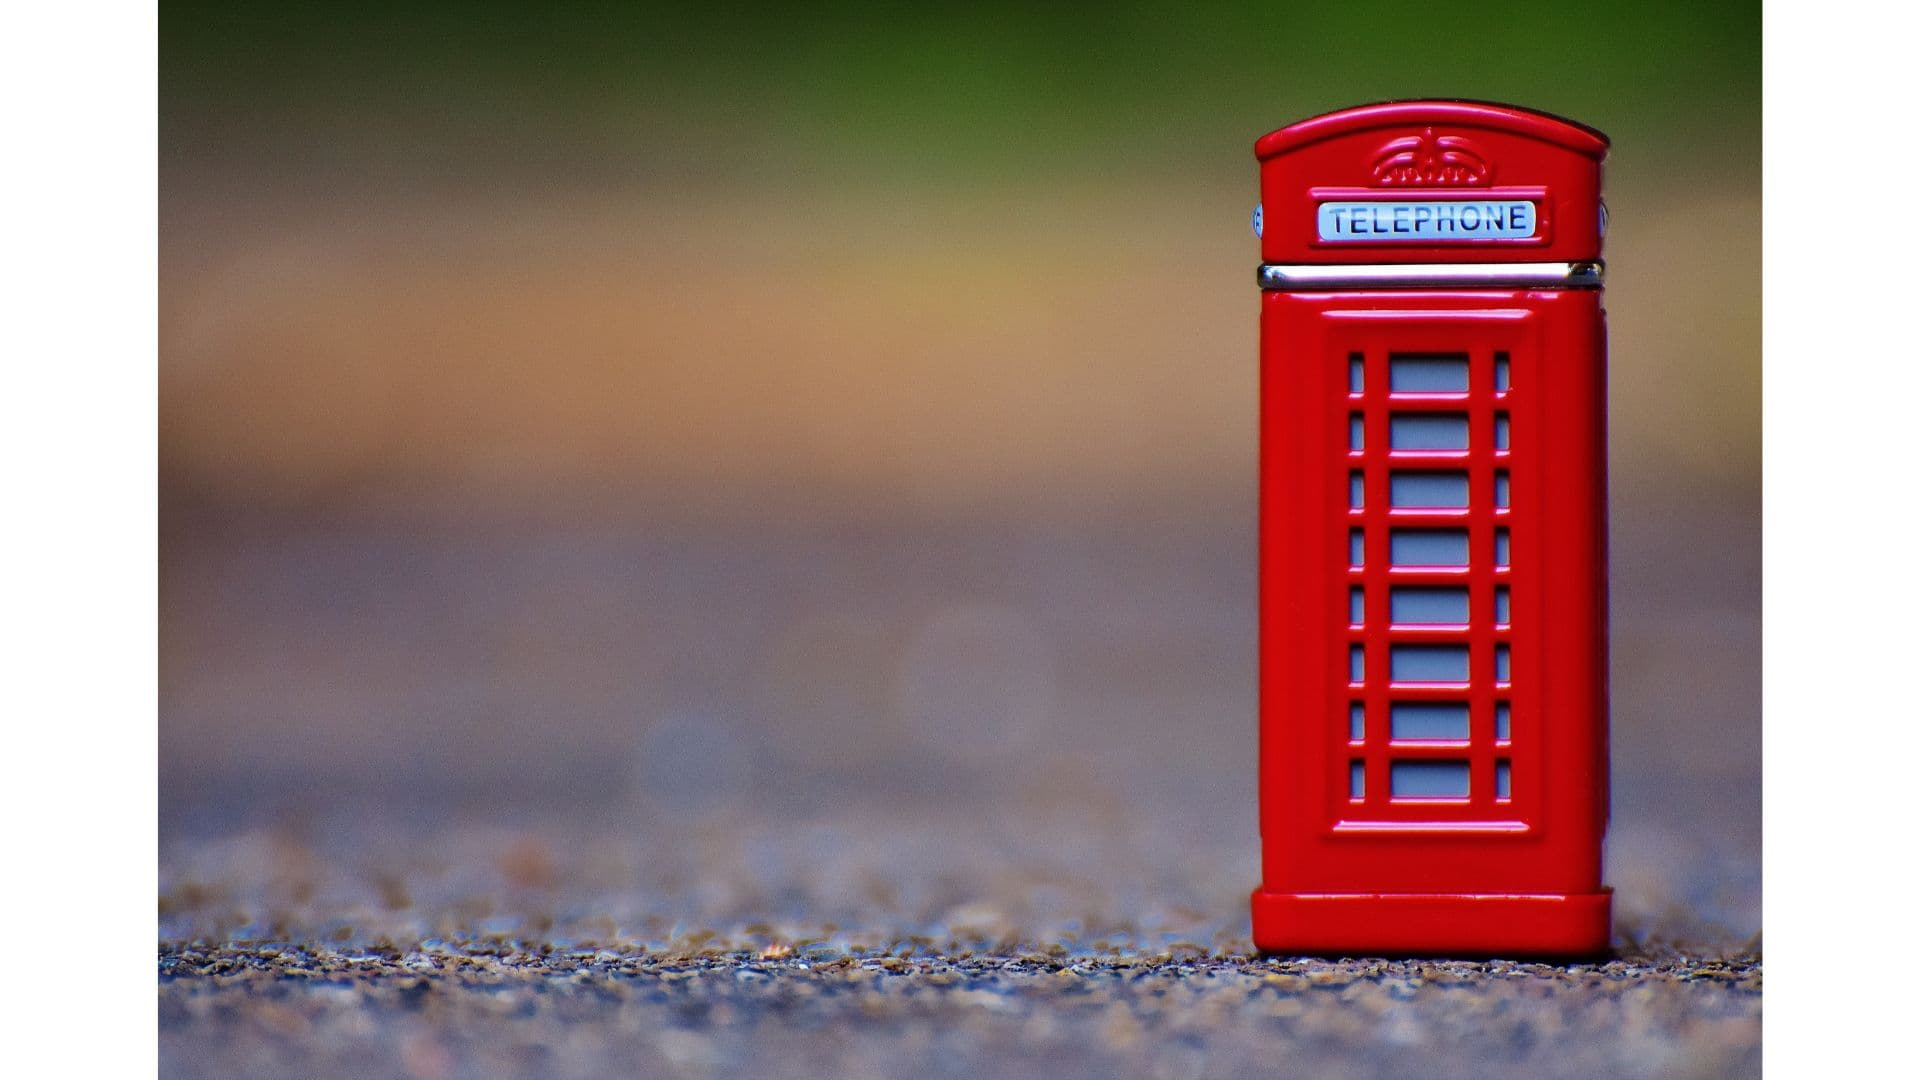
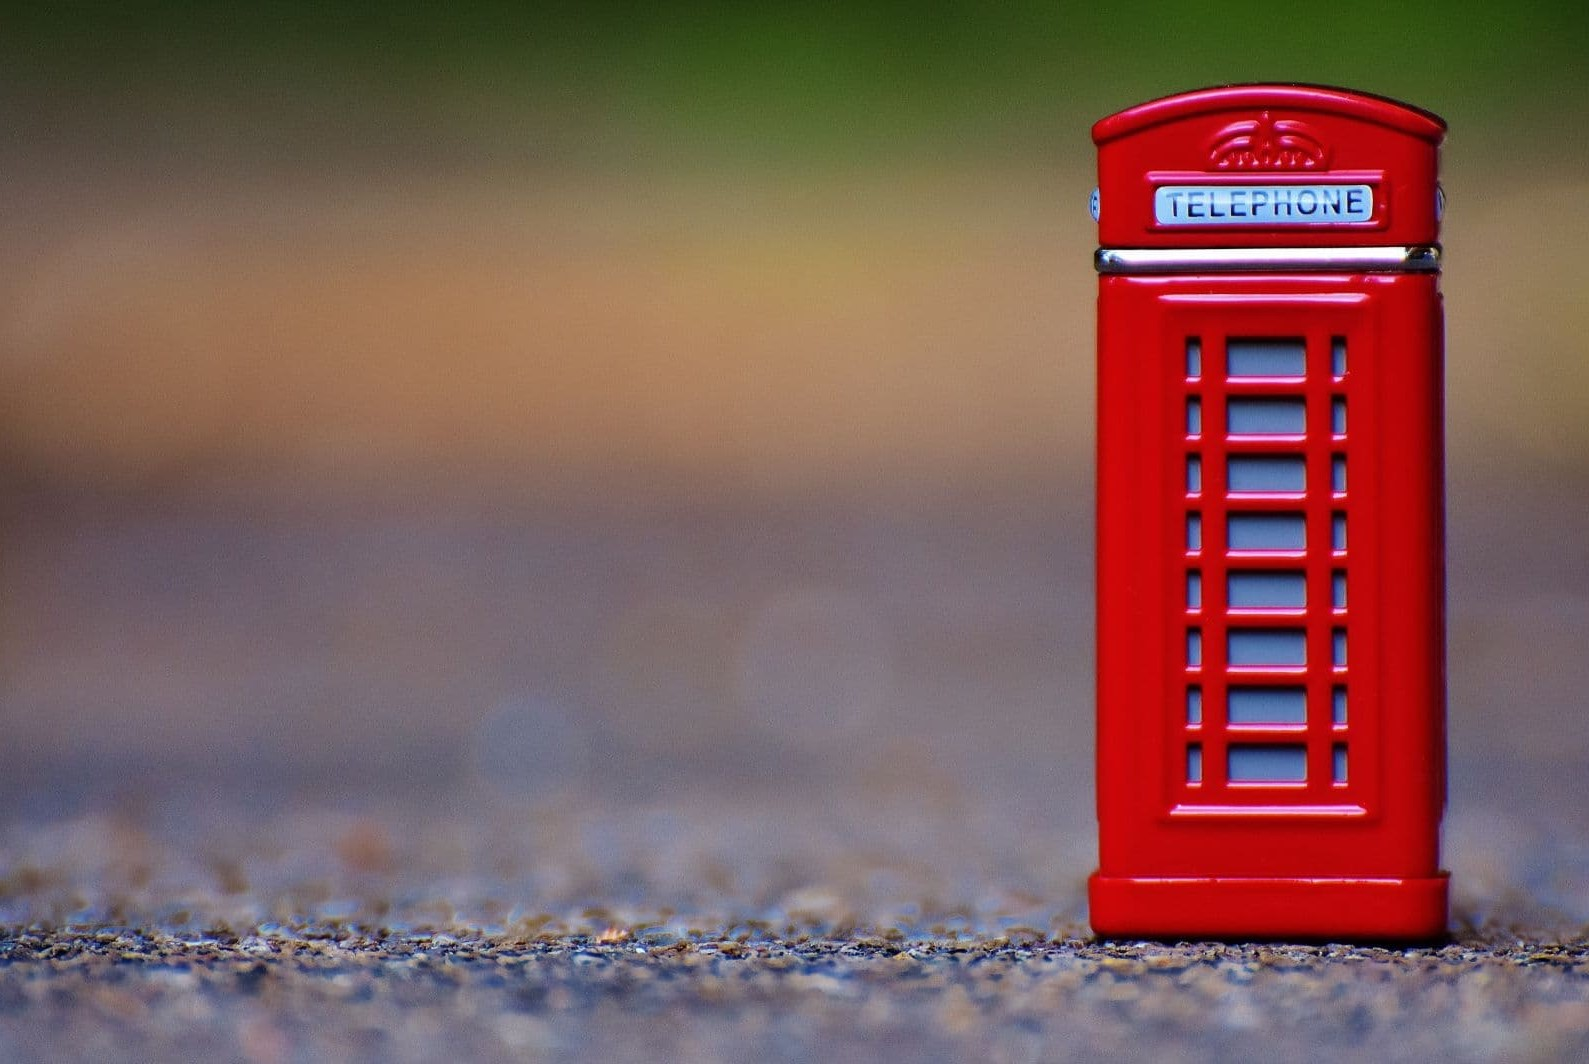
fix last

diff --git a/src/pages/homePage/HomePage.module.css b/src/pages/homePage/HomePage.module.css
@@ -3,7 +3,7 @@
   display: flex;
   align-items: center;
   padding-left: 15%;
-  background-image: url(../../img/telephone_booth.jpg);
+  background-image: url(../../img/telefonnaya-kniga.jpeg);
   background-size: cover;
   background-repeat: no-repeat;
 }

diff --git a/src/pages/contactsPage/ContactsPage.module.css b/src/pages/contactsPage/ContactsPage.module.css
@@ -7,6 +7,7 @@
   background-image: url(../../img/telephone_booth.jpg);
   background-size: cover;
   background-repeat: no-repeat;
+  
 }
 
 .title {
